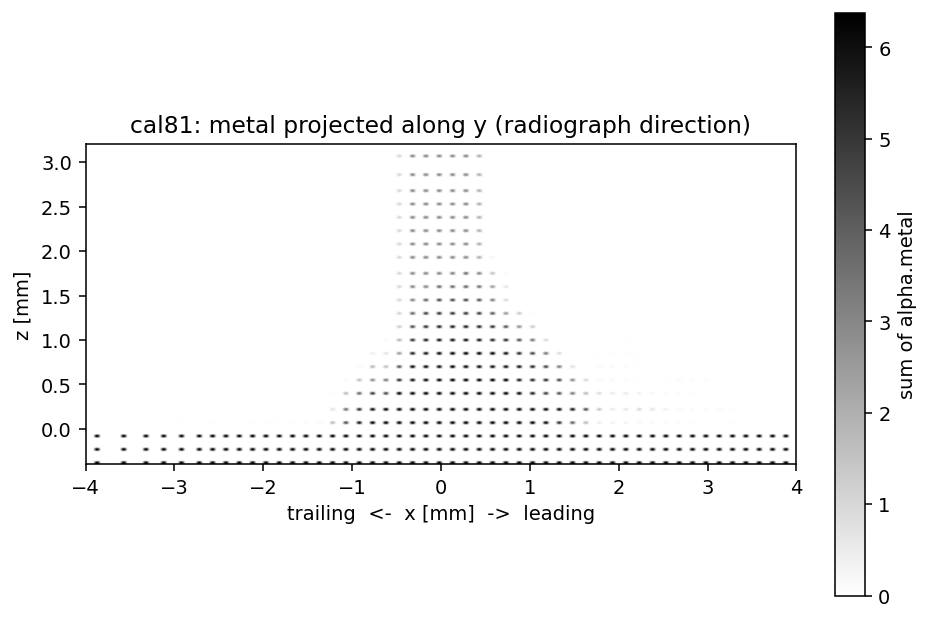
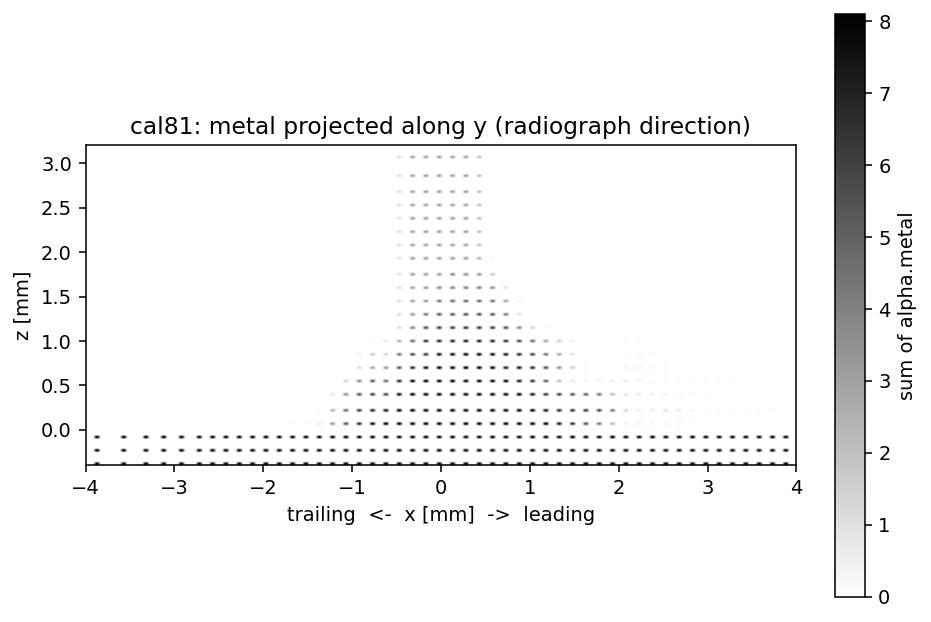
Score the longer 40 W front-spot run.
By 0.65 s the leading crest has risen from 0.69 mm to 0.84 mm and the lack-of-fusion pore at the foot has grown to three cells, so the run stops.

diff --git a/results/calibration/taosun03/README.md b/results/calibration/taosun03/README.md
@@ -84,7 +84,7 @@ The radiograph is a rounded dome about 1.5–2 mm tall, higher on the trailing s
 | cal79 | 0.45 s | 8 | 1.61 / 1.15 mm | 1.15–1.76 mm, 6/8 pinned | open, 3.45 mm³, centre y = 1.04 mm | 80+80+500 W with 60°/140°. Same early crests as cal58. Not continued. |
 | cal35 | 1.00 s | 8 | 2.06 / 1.45 mm | 1.45–2.22 mm, 9/9 pinned | open, 2.23 mm³, centre y = 1.14 mm | Slow scan, given time. Lead rose with the trail. Not continued further. |
 | cal58 | 0.70 s | 8 | 1.91 / 0.99 mm | 0.99–2.06 mm, 9/9 pinned | open, 3.09 mm³, centre y = 1.07 mm | 80+80+500 W at 2 mm/s, given time. Fully pinned. Continued to 0.95 s. |
-| cal81 | 0.45 s | 8 | 1.76 / 0.69 mm | 0.99–1.91 mm, 10/11 pinned | open, 3.86 mm³, centre y = 1.02 mm | 40+40+560 W at 2 mm/s. Lowest lead. A foot pore locked. Continued to 0.65 s. |
+| cal81 | 0.65 s | 8 | 1.76 / 0.84 mm | 0.99–1.91 mm, 7/7 pinned | open, 3.13 mm³, centre y = 1.05 mm | 40+40+560 W. Lead rose from 0.69 mm. Foot pore grew to 0.26 mm. Not continued. |
 | cal76 | 0.40 s | 8 | 1.76 / 0.99 mm | 0.99–1.91 mm, 12/14 pinned | open, 3.60 mm³, centre y = 1.03 mm | 650 W with the 30°/100° window. Continued to 0.70 s. |
 | cal32 | 0.70 s | 8 | 1.91 / 1.45 mm | 1.15–1.91 mm, 11/13 pinned | open, 2.61 mm³, centre y = 1.15 mm | 45°/120° window, given time. Tallest trail. Lead rose with it. Not continued further. |
 | cal34 | 1.00 s | 8 | 1.91 / 1.45 mm | 1.15–1.91 mm, 10/13 pinned | open, 2.44 mm³, centre y = 1.17 mm | 60°/140°, given time. Lead rose from 1.15 mm. Not continued further. |
@@ -189,7 +189,7 @@ At 0.80 s the 50+50+650 W run (cal43) matches cal36's leading crest, 0.84 mm, wi
 
 At 0.70 s the milder 80+80+500 W run (cal58) has a 1.91 mm trail and a 0.99 mm lead, with all 9 wire cells pinned from 0.99 mm to 2.06 mm. It is continued to 0.95 s. Comparison: `cal58_vs_radiograph.png`.
 
-Cutting the front spots to 40 W at that slow scan (cal81, rear 560 W) drops the lead to 0.69 mm and keeps 10 of 11 wire cells pinned, with the trail at 1.76 mm. A lack-of-fusion pore is locked at the foot, one cell, at about (x, y, z) = (−0.03, 0.66, 0.38) mm. It is continued to 0.65 s to see whether the trail grows and whether that pore stays. Comparison: `cal81_vs_radiograph.png`.
+Cutting the front spots to 40 W at that slow scan (cal81, rear 560 W) drops the lead to 0.69 mm at 0.45 s. By 0.65 s the lead is back to 0.84 mm, all 7 wire cells are pinned from 0.99 mm to 1.91 mm, and the trail is still 1.76 mm. The foot pore grew from one cell to three, 0.26 mm, centred near (−0.73, 0.37, 0.43) mm, and it is locked. The run stops. Comparison: `cal81_vs_radiograph.png`.
 
 The 30°/100° window on 50+50+650 W (cal76) reaches 1.76 / 0.99 mm at 0.40 s with 12 of 14 wire cells pinned. It is continued to 0.70 s. The same window on 80+80+500 W (cal79) does not beat the plain cal58 crests. Comparison: `cal76_vs_radiograph.png`.
 
